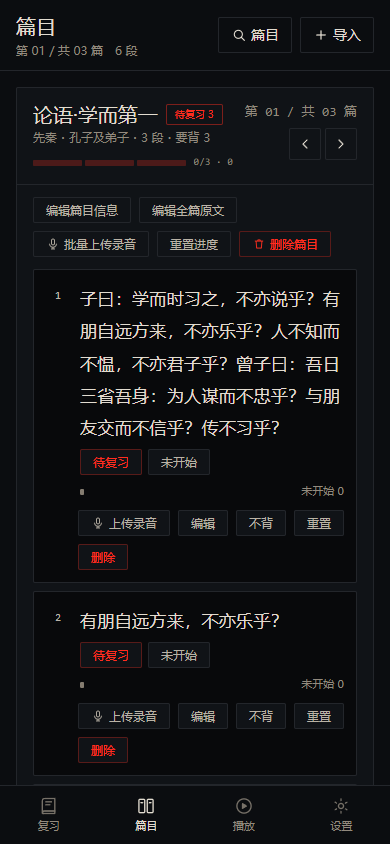
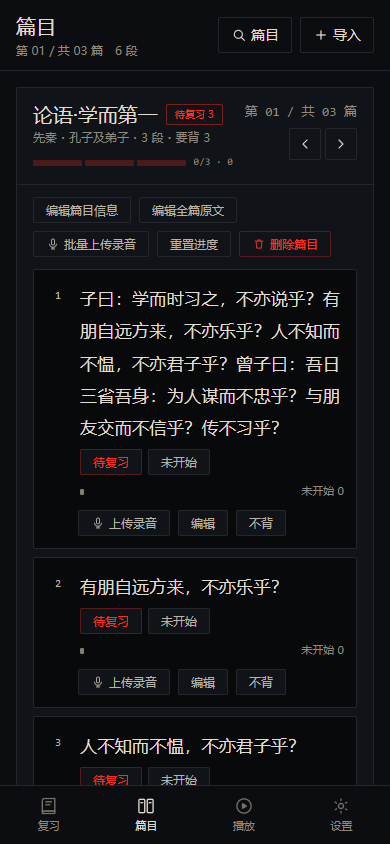
收官审查（替代路径）：两页按 craft floor 逐条核对后的修正批次
设置页：删掉 8 条重复的小签（WORLD / FONT SIZE / LINE HEIGHT / REMINDER / PERSISTED 等只说了一遍名字），只留下承载信息的：字/分钟、ICS、JSON、ZIP、篇/段/录音、SAFARI 路径、不可恢复。

篇目页：段落行常态操作从七个键收到四个（播放/录音/编辑/要背），重置进度、删除录音、删除该段移进展开后的编辑面板——功能一项不少，但一行不再像工具栏。

记录：library surface brief 补上两处有理由的偏离（翻篇读数放卡头、低频操作移入编辑面板），契约与实现重新对齐。

验证：tsc 干净、62 测试通过、构建通过、390 与 1440 零横向溢出、检测器 0 发现。

diff --git a/src/pages/SettingsPage.tsx b/src/pages/SettingsPage.tsx
@@ -167,14 +167,12 @@ export default function SettingsPage() {
         <GroupLabel>显示 DISPLAY</GroupLabel>
         <Band
           label="视觉世界"
-          kicker="WORLD"
           value={findTheme(settings.theme).name}
           tone="dim"
           action={<ActKey label="查看" onPress={() => navigate('/design')} />}
         />
         <Band
           label="正文字号"
-          kicker="FONT SIZE"
           value={`${settings.fontScale.toFixed(2)}×`}
           open={openBand === 'font'}
           onToggle={() => toggleBand('font')}
@@ -191,7 +189,6 @@ export default function SettingsPage() {
         </Band>
         <Band
           label="正文行高"
-          kicker="LINE HEIGHT"
           value={settings.lineHeight.toFixed(2)}
           open={openBand === 'line'}
           onToggle={() => toggleBand('line')}
@@ -208,7 +205,6 @@ export default function SettingsPage() {
         </Band>
         <Band
           label="篇目页显示拼音"
-          kicker="PINYIN · LIBRARY"
           control={
             <LampKey
               on={settings.pinyinVisible}
@@ -220,7 +216,6 @@ export default function SettingsPage() {
         />
         <Band
           label="复习时带拼音"
-          kicker="PINYIN · REVIEW"
           control={
             <LampKey
               on={settings.pinyinInReview}
@@ -232,7 +227,6 @@ export default function SettingsPage() {
         />
         <Band
           label="竖排显示正文"
-          kicker="VERTICAL"
           control={
             <LampKey
               on={settings.vertical}
@@ -244,7 +238,7 @@ export default function SettingsPage() {
         />
         <Band
           label="背诵速度"
-          kicker="CHARS / MIN"
+          kicker="字 / 分钟"
           value={String(settings.recitePace)}
           hint="决定首页「预计用时」读数"
           open={openBand === 'pace'}
@@ -264,7 +258,6 @@ export default function SettingsPage() {
         <GroupLabel>提醒 REMINDER</GroupLabel>
         <Band
           label="每日提醒时间"
-          kicker="REMINDER"
           value={settings.reminderTime}
           open={openBand === 'reminder'}
           onToggle={() => toggleBand('reminder')}
@@ -278,14 +271,14 @@ export default function SettingsPage() {
         </Band>
         <Band
           label="导出日历提醒"
-          kicker="ICS · 一次长期有效"
+          kicker="ICS · 一次导入长期有效"
           action={<ActKey label="导出" onPress={downloadIcs} />}
         />
 
         <GroupLabel>数据 DATA</GroupLabel>
         <Band
           label="篇目与段落"
-          kicker="WORKS / PASSAGES / AUDIO"
+          kicker="篇 / 段 / 录音"
           value={`${works.length} / ${passages.length} / ${audios.length}`}
           hint={storage ? `已占用 ${formatSize(storage.usage)}` : undefined}
         />
@@ -331,7 +324,6 @@ export default function SettingsPage() {
         />
         <Band
           label="持久化存储"
-          kicker="PERSISTED"
           hint={storage?.persisted ? '浏览器不会自动清理' : '建议开启，避免数据被清理'}
           control={
             <LampKey
@@ -346,7 +338,7 @@ export default function SettingsPage() {
         <GroupLabel>装到手机上 INSTALL</GroupLabel>
         <Band
           label="添加到主屏幕"
-          kicker="ADD TO HOME SCREEN"
+          kicker="SAFARI → 分享 → 添加到主屏幕"
           value="3 步"
           tone="dim"
           open={openBand === 'install'}
@@ -365,7 +357,7 @@ export default function SettingsPage() {
         <GroupLabel>危险 IRREVERSIBLE</GroupLabel>
         <Band
           label="清空全部数据"
-          kicker="IRREVERSIBLE"
+          kicker="不可恢复"
           hint="删除所有篇目、录音与复习记录"
           danger
           action={

diff --git a/src/pages/LibraryPage.tsx b/src/pages/LibraryPage.tsx
@@ -790,24 +790,34 @@ function PassageRow({
             >
               清除拼音修正
             </button>
+            <button type="button" className="btn btn-ghost" onClick={() => void resetPassage(passage.id)}>
+              重置该段进度
+            </button>
+            {hasAudio ? (
+              <button
+                type="button"
+                className="btn btn-ghost"
+                onClick={() => void deleteAudio(passage.id)}
+              >
+                删除录音
+              </button>
+            ) : null}
+            <button
+              type="button"
+              className="btn btn-danger"
+              onClick={() => setConfirmDelete(true)}
+            >
+              删除该段
+            </button>
           </div>
         </div>
       ) : (
         <div className="mt-2.5 flex flex-wrap items-center gap-2 pl-8">
           {hasAudio ? (
-            <>
-              <button type="button" className="chip" onClick={handlePlay}>
-                <IconPlay className="h-3.5 w-3.5" />
-                播放
-              </button>
-              <button
-                type="button"
-                className="chip text-ink-faint"
-                onClick={() => void deleteAudio(passage.id)}
-              >
-                删除录音
-              </button>
-            </>
+            <button type="button" className="chip" onClick={handlePlay}>
+              <IconPlay className="h-3.5 w-3.5" />
+              播放
+            </button>
           ) : null}
           <button type="button" className="chip" onClick={() => fileRef.current?.click()}>
             <IconMic className="h-3.5 w-3.5" />
@@ -822,20 +832,6 @@ function PassageRow({
             onClick={() => void patchPassage(passage.id, { isRecite: !passage.isRecite })}
           >
             {passage.isRecite ? '不背' : '要背'}
-          </button>
-          <button
-            type="button"
-            className="chip"
-            onClick={() => void resetPassage(passage.id)}
-          >
-            重置
-          </button>
-          <button
-            type="button"
-            className="chip border-cinnabar/30 text-cinnabar"
-            onClick={() => setConfirmDelete(true)}
-          >
-            删除
           </button>
           {durationMs ? (
             <span className="meta ml-auto">
